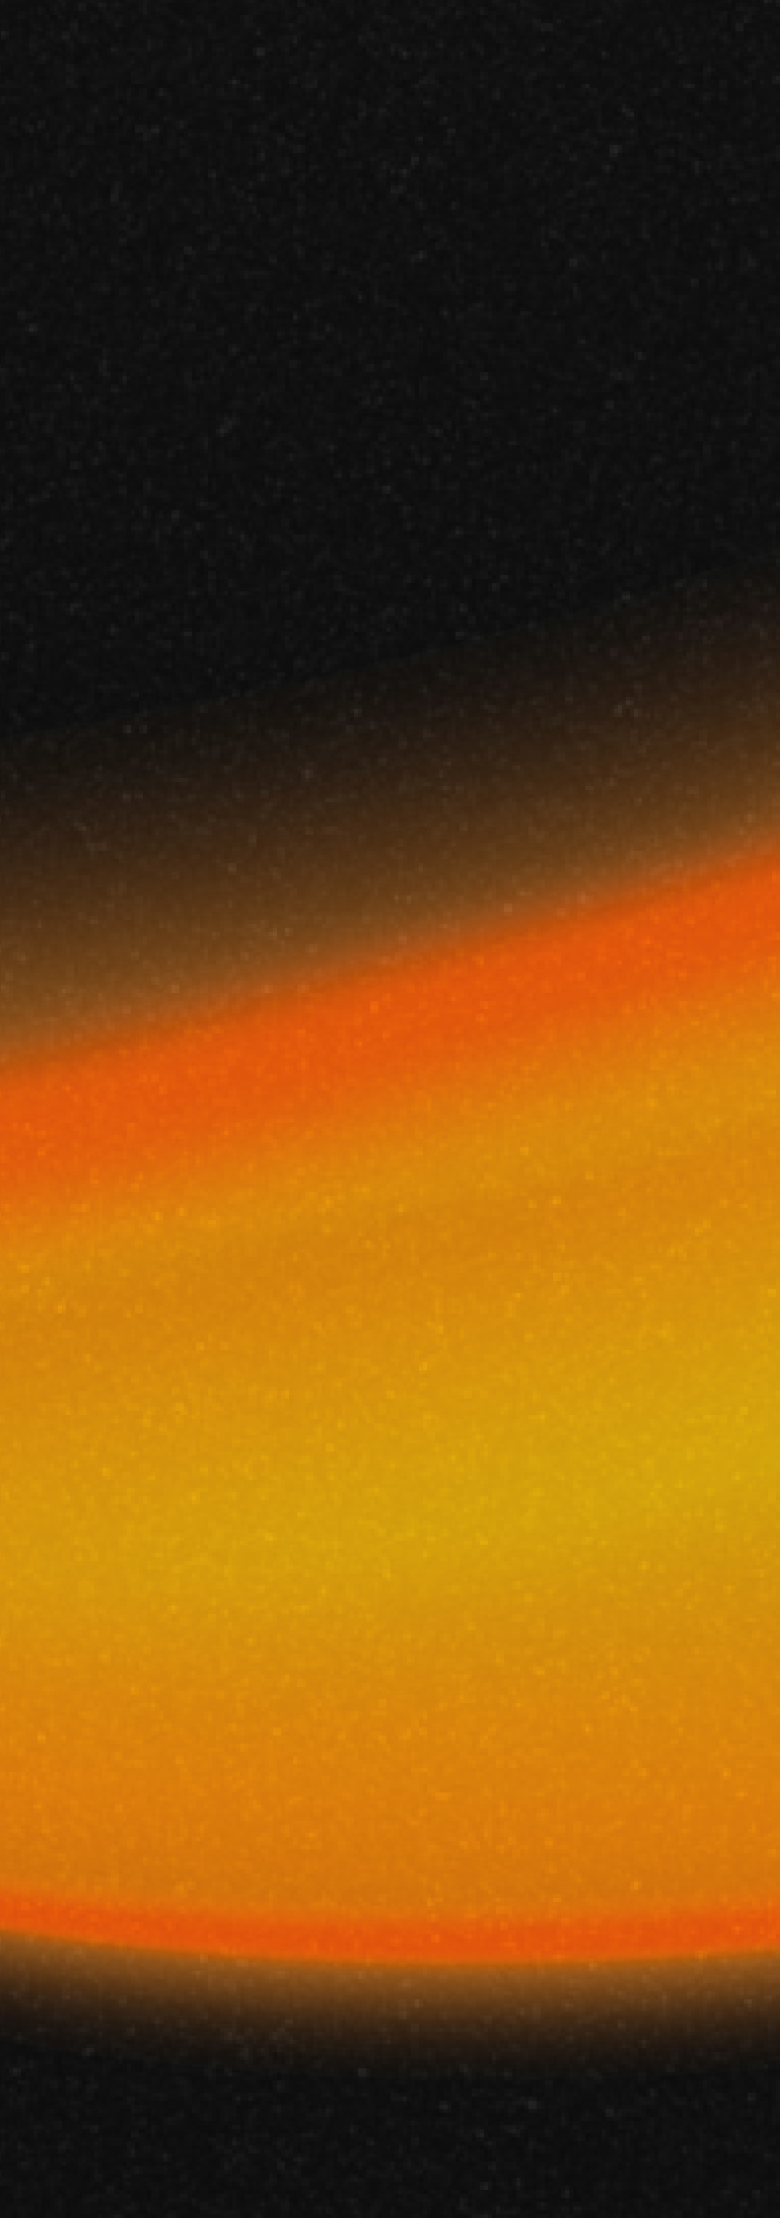
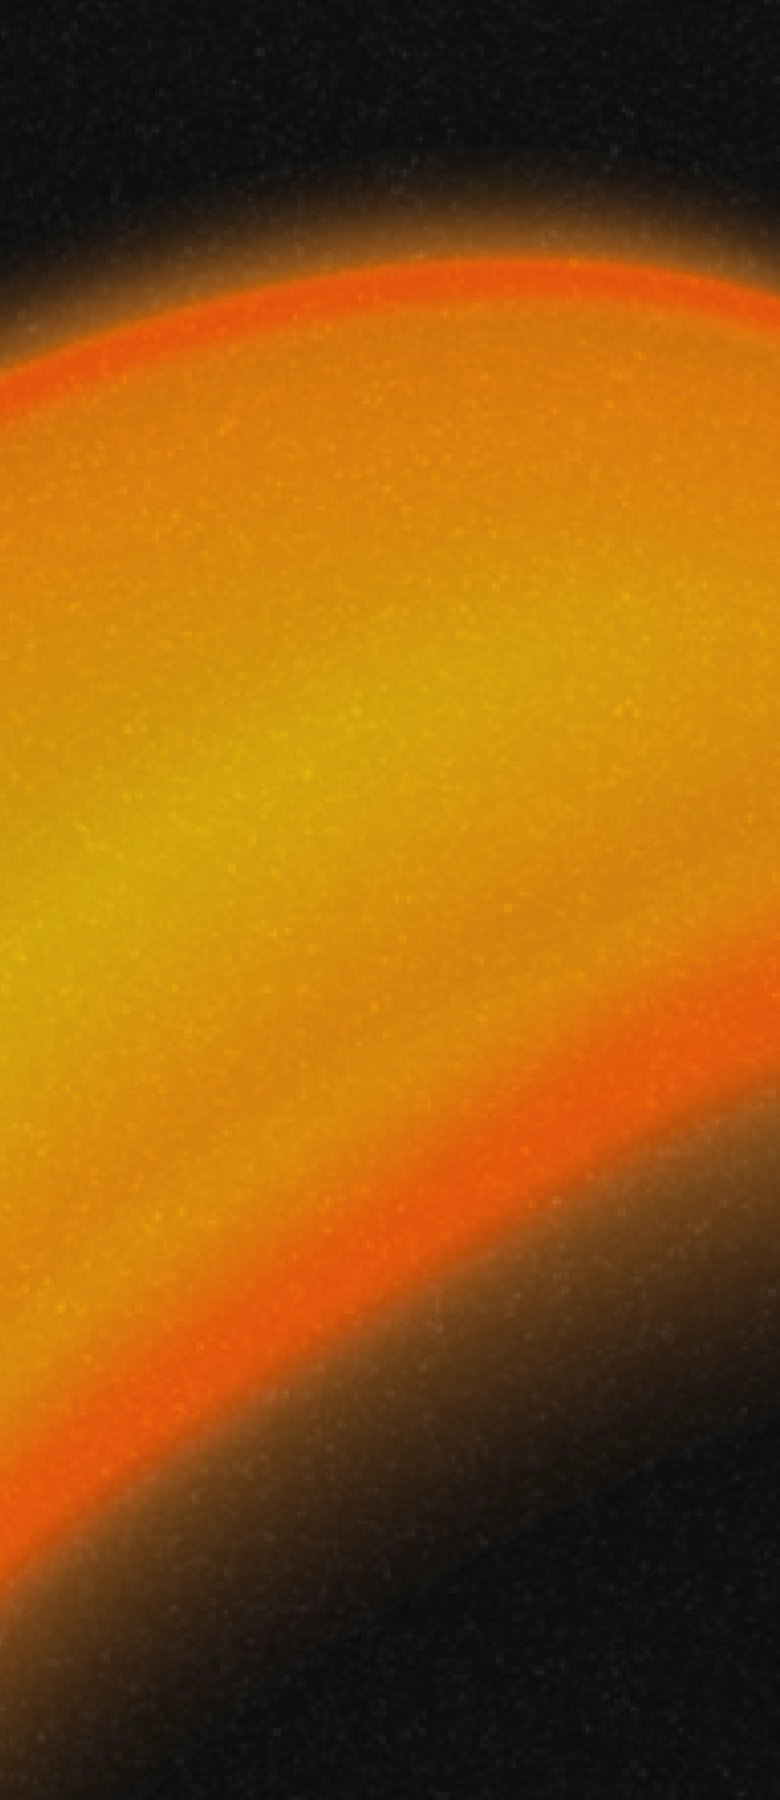
added settings page layout

diff --git a/lib/views/settings.dart b/lib/views/settings.dart
@@ -1,10 +1,9 @@
 
 import 'package:flutter/material.dart';
 import 'package:flutter/cupertino.dart';
-import 'package:shine/components/Profile/profile.dart';
-
+import 'package:flutter_svg/svg.dart';
+import 'package:shine/components/Common/Buttons/buttons.dart';
 import '../components/Common/AppBar/DefaultAppBar.dart';
-import '../components/Common/BottomBar.dart';
 import '../models/Self.dart';
 
 class Settings extends StatefulWidget {
@@ -35,41 +34,144 @@ class _SettingsState extends State<Settings> {
       extendBodyBehindAppBar: true,
       resizeToAvoidBottomInset: false,
       appBar: const DefaultAppBar(title: "НАСТРОЙКИ", titleSize: 24),
-      body: Stack(
-        children: [
-          SingleChildScrollView(
-            child: Container(
-              constraints: BoxConstraints(
-                  minHeight: MediaQuery.of(context).size.height,
-                  minWidth: MediaQuery.of(context).size.width
-              ),
-              padding: const EdgeInsets.only(top: 120, left: 20, right: 20, bottom: 100),
-              decoration: const BoxDecoration(
-                image: DecorationImage(
-                  image: AssetImage("assets/images/backgrounds/settings-bg.png"),
-                  fit: BoxFit.cover,
-                ),
+      body: Container(
+        padding: const EdgeInsets.only(top: 120, left: 20, right: 20, bottom: 40),
+        decoration: const BoxDecoration(
+          image: DecorationImage(
+            image: AssetImage("assets/images/backgrounds/settings-bg.png"),
+            fit: BoxFit.cover,
+          ),
+        ),
+        child: Column(
+          crossAxisAlignment: CrossAxisAlignment.center,
+          mainAxisAlignment: MainAxisAlignment.spaceBetween,
+          children: [
+            Container(
+              decoration: BoxDecoration(
+                  color: Color.fromRGBO(20, 20, 20, 0.8),
+                  borderRadius: BorderRadius.circular(10)
               ),
               child: Column(
                 children: [
-                  ProfileCard(user: user),
-                  SizedBox(height: 10),
-                  (user.profile_filled < 100) ?
-                  ProfileFilled(percent: user.profile_filled) :
-                  Container(),
-                  SizedBox(height: 10),
-                  PremiumInvites(invites: user.invites ?? 0),
-                  SizedBox(height: 10),
-                  BotSettings()
+                  SettingsButton(title: 'Уведомления', route: '/'),
+                  Divider(height: 1, color: Colors.white.withOpacity(0.6)),
+                  SettingsButton(title: 'Черный список', route: '/'),
+                  Divider(height: 1, color: Colors.white.withOpacity(0.6)),
+                  SettingsButton(title: 'FAQ', route: '/'),
+                  Divider(height: 1, color: Colors.white.withOpacity(0.6)),
+                  SettingsButton(title: 'Сообщить о проблеме', route: '/'),
+                  Divider(height: 1, color: Colors.white.withOpacity(0.6)),
+                  SettingsButton(title: 'Помощь разработчикам', route: '/'),
+                  Divider(height: 1, color: Colors.white.withOpacity(0.6)),
+                  SettingsButton(title: 'Политика конфиденциальности', route: '/'),
+                  Divider(height: 1, color: Colors.white.withOpacity(0.6)),
+                  SettingsButton(title: 'Пользовательское соглашение', route: '/'),
                 ],
+              )
+            ),
+            Column(
+              children: [
+                SizedBox(height: 30),
+                SizedBox(
+                  width: MediaQuery.of(context).size.width,
+                  height: 40,
+                  child: ElevatedButton(
+                    onPressed: () => {
+                      Navigator.pushNamed(context, 'welcome')
+                    },
+                    style: ElevatedButton.styleFrom(
+                      shape: const RoundedRectangleBorder(
+                        borderRadius: BorderRadius.all(Radius.circular(10)),
+                      ),
+                      backgroundColor: Colors.black.withOpacity(0.4),
+                      foregroundColor: Colors.black.withOpacity(0.5),
+                      disabledBackgroundColor: Colors.black.withOpacity(1),
+                    ),
+                    child: Text(
+                      'Выйти',
+                      textAlign: TextAlign.start,
+                      style: const TextStyle(
+                          height: 1,
+                          fontFamily: 'Inter',
+                          fontSize: 18,
+                          color: Colors.white
+                      ),
+                    ),
+                  ),
+                ),
+                SizedBox(height: 30),
+                SizedBox(
+                  width: MediaQuery.of(context).size.width,
+                  height: 40,
+                  child: ElevatedButton(
+                    onPressed: () => {
+                      Navigator.pushNamed(context, 'welcome')
+                    },
+                    style: ElevatedButton.styleFrom(
+                      shape: const RoundedRectangleBorder(
+                        borderRadius: BorderRadius.all(Radius.circular(10)),
+                      ),
+                      backgroundColor: Colors.black.withOpacity(0.4),
+                      foregroundColor: Colors.black.withOpacity(0.5),
+                      disabledBackgroundColor: Colors.black.withOpacity(1),
+                    ),
+                    child: Text(
+                      'Удалить аккаунт',
+                      textAlign: TextAlign.start,
+                      style: const TextStyle(
+                          height: 1,
+                          fontFamily: 'Inter',
+                          fontSize: 18,
+                          color: Colors.redAccent
+                      ),
+                    ),
+                  ),
+                ),
+              ],
+            )
+          ],
+        ),
+      )
+    );
+  }
+}
+
+class SettingsButton extends StatelessWidget {
+
+  final String title;
+  final String route;
+
+  const SettingsButton({super.key, required this.title, required this.route});
+
+  @override
+  Widget build(BuildContext context) {
+    return GestureDetector(
+      onTap: () => {
+        Navigator.pushNamed(context, this.route)
+      },
+      child: Container(
+        color: Colors.transparent,
+        padding: EdgeInsets.symmetric(
+            horizontal: 20,
+        ),
+        height: 50,
+        child: Row(
+          mainAxisAlignment: MainAxisAlignment.spaceBetween,
+          crossAxisAlignment: CrossAxisAlignment.center,
+          children: [
+            Text(
+              this.title,
+              textAlign: TextAlign.start,
+              style: TextStyle(
+                  color: Colors.white,
+                  fontSize: 18,
+                  height: 1,
+                  fontFamily: 'Inter'
               ),
             ),
-          ),
-          Container(
-            alignment: Alignment.bottomCenter,
-            child: const BottomBar(active: "profile"),
-          )
-        ],
+            SvgPicture.asset('assets/icons/arrow-right.svg', height: 14),
+          ],
+        ),
       ),
     );
   }

diff --git a/lib/views/profileSettings.dart b/lib/views/profileSettings.dart
@@ -119,10 +119,62 @@ class _ProfileSettingsState extends State<ProfileSettings> {
                           color: Color.fromRGBO(20, 20, 20, 0.8),
                           borderRadius: BorderRadius.circular(10)
                       ),
-                      child: const ExtendedSelect(
-                        values: ['Свидания', 'Флирт', 'Отношения', 'Дружба', 'Виртуальное общение'],
-                        title: 'Цель знакомства',
-                        selected: 'Свидания',
+                      child: Column(
+                        children: [
+                          ExtendedSelect(
+                            values: ['Ростов-на-Дону', 'Москва', 'Краснодар', 'Санкт-Петербург'],
+                            title: 'Город',
+                            selected: 'Ростов-на-Дону',
+                          ),
+                          Divider(height: 1, color: Colors.white.withOpacity(0.6)),
+                          ExtendedSelect(
+                            values: ['Свидания', 'Флирт', 'Отношения', 'Дружба', 'Виртуальное общение'],
+                            title: 'Семейное положение',
+                            selected: null,
+                          ),
+                          Divider(height: 1, color: Colors.white.withOpacity(0.6)),
+                          ExtendedSelect(
+                            values: ['Свидания', 'Флирт', 'Отношения', 'Дружба', 'Виртуальное общение'],
+                            title: 'Дети',
+                            selected: 'Свидания',
+                          ),
+                          Divider(height: 1, color: Colors.white.withOpacity(0.6)),
+                          ExtendedSelect(
+                            values: ['Свидания', 'Флирт', 'Отношения', 'Дружба', 'Виртуальное общение'],
+                            title: 'Рост',
+                            selected: 'Свидания',
+                          ),
+                          Divider(height: 1, color: Colors.white.withOpacity(0.6)),
+                          ExtendedSelect(
+                            values: ['Свидания', 'Флирт', 'Отношения', 'Дружба', 'Виртуальное общение'],
+                            title: 'Образование',
+                            selected: 'Свидания',
+                          ),
+                          Divider(height: 1, color: Colors.white.withOpacity(0.6)),
+                          ExtendedSelect(
+                            values: ['Свидания', 'Флирт', 'Отношения', 'Дружба', 'Виртуальное общение'],
+                            title: 'Хобби/Интересы',
+                            selected: 'Свидания',
+                          ),
+                          Divider(height: 1, color: Colors.white.withOpacity(0.6)),
+                          ExtendedSelect(
+                            values: ['Свидания', 'Флирт', 'Отношения', 'Дружба', 'Виртуальное общение'],
+                            title: 'Языки',
+                            selected: 'Свидания',
+                          ),
+                          Divider(height: 1, color: Colors.white.withOpacity(0.6)),
+                          ExtendedSelect(
+                            values: ['Свидания', 'Флирт', 'Отношения', 'Дружба', 'Виртуальное общение'],
+                            title: 'Отношение к алкоголю',
+                            selected: 'Свидания',
+                          ),
+                          Divider(height: 1, color: Colors.white.withOpacity(0.6)),
+                          ExtendedSelect(
+                            values: ['Свидания', 'Флирт', 'Отношения', 'Дружба', 'Виртуальное общение'],
+                            title: 'Отношение к курению',
+                            selected: 'Свидания',
+                          ),
+                        ],
                       )
                   )
                 ],

diff --git a/lib/components/ProfileSettings/ExtendedSelect.dart b/lib/components/ProfileSettings/ExtendedSelect.dart
@@ -5,14 +5,14 @@ import 'package:flutter_svg/svg.dart';
 class ExtendedSelect extends StatefulWidget {
 
   final List<String> values;
-  final String selected;
+  final String? selected;
   final String title;
   final String placeholder;
 
   const ExtendedSelect({
     super.key,
     required this.values,
-    this.selected = '',
+    this.selected = null,
     required this.title,
     this.placeholder = ''
   });
@@ -33,6 +33,7 @@ class _ExtendedSelectState extends State<ExtendedSelect> {
   @override
   void initState() {
     _selectedValue = widget.selected;
+    is_active = _selectedValue == null ? false : true;
     super.initState();
   }
 
@@ -56,7 +57,7 @@ class _ExtendedSelectState extends State<ExtendedSelect> {
             color: Colors.transparent,
             padding: EdgeInsets.symmetric(
                 horizontal: 20,
-                vertical: !is_active && controller.text.length == 0 ? 21 : 10
+                vertical: !is_active ? 21 : 10
             ),
             width: MediaQuery.of(context).size.width,
             child: Row(
@@ -70,13 +71,13 @@ class _ExtendedSelectState extends State<ExtendedSelect> {
                       widget.title,
                       textAlign: TextAlign.start,
                       style: TextStyle(
-                          color: is_active ? Colors.white.withOpacity(0.6) : Colors.white,
+                          color: Colors.white.withOpacity(0.6),
                           fontSize: is_active ? 12 : 20,
                           height: 1,
                           fontFamily: 'Inter'
                       ),
                     ),
-                    !is_active && controller.text.length > 0 ? Padding(
+                    !is_active ? Padding(
                       padding: const EdgeInsets.only(top: 5),
                       child: Text(
                         controller.text,
